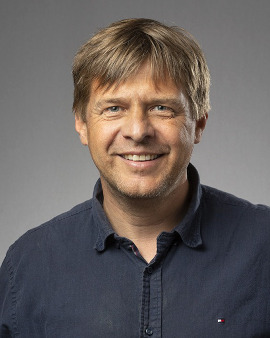
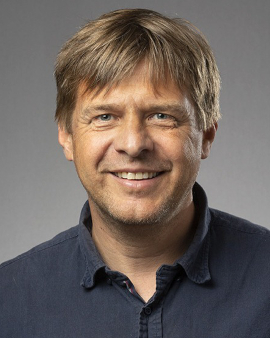
Updated two more pictures and added links to work profiles

diff --git a/_pages/about.md b/_pages/about.md
@@ -29,35 +29,35 @@ ELIXIR Denmark is a member of [ELIXIR](https://elixir-europe.org/), an intergove
 ## Steering Committee
 
 <div id="images">
-    <a href="">
+    <a href="https://vbn.aau.dk/da/persons/as">
         <img alt="Allan Stensballe" src="/_pages/about_SC_Allan-Stensballe.jpg" width="120" />
         <div class="caption" width="170">Allan Stensballe (AAU)</div>
     </a>
-    <a href="">
+    <a href="https://di.ku.dk/english/staff/?pure=en/persons/8330">
         <img alt="Anders Krogh" src="/_pages/about_SC_Anders-Krogh.jpg" width="120" />
         <div class="caption" width="170">Anders Krogh (UCPH)</div>
     </a>
-    <a href="">
+    <a href="https://www.ssi.dk/om-ssi/kontakt/medarbejdere/b/bartlomiej-wilkowski-baw">
         <img alt="Bartlomiej Wilkowski" src="/_pages/about_SC_Bart_Wilkowski.jpg" width="120" />
         <div class="caption" width="170">Bartlomiej Wilkowski (SSI)</div>
     </a>
-    <a href="">
+    <a href="https://ivh.ku.dk/ansatte/?pure=da/persons/35979">
         <img alt="Jan Gorodkin" src="/_pages/about_Jan-Gorodkin.jpg" width="120" />
         <div class="caption" width="170">Jan Gorodkin (UCPH)</div>
     </a>
-    <a href="">
+    <a href="https://pure.au.dk/portal/da/persons/mheide%40birc.au.dk/?sort=forfatter&visalle=">
         <img alt="Mikkel Heide Schierup" src="/_pages/about_SC_Mikkel_Heide_Schierup.jpg" width="120"  />
         <div class="caption" width="170">Mikkel Heide Schierup (AU)</div>
     </a>
-    <a href="">
+    <a href="https://www.au.dk/pso@qgg.au.dk/">
         <img alt="Peter Sørensen" src="/_pages/about_SC_Peter-Soerensen.jpg" width="120" />
         <div class="caption" width="170">Peter Sørensen (AU)</div>
     </a>
-    <a href="">
+    <a href="https://www.linkedin.com/in/troels-rasmussen-97021a5/">
         <img alt="Troels Tvedegaard Rasmussen" src="/_pages/about_SC_Troels-T-Rasmussen.jpg" width="120" />
         <div class="caption" width="170">Troels Tvedegaard Rasmussen (NGC)</div>
     </a>
-    <a href="">
+    <a href="https://www.sdu.dk/en/om-sdu/institutter-centre/bmb_biokemi_og_molekylaer_biologi/medarbejdere/academic/veit-schwaemmle">
         <img alt="Veit Stefan Schwämmle" src="/_pages/about_SC_Veit_Schwammle.jpg" width="120" />
         <div class="caption" width="170">Veit Stefan Schwämmle (SDU)</div>
     </a>
